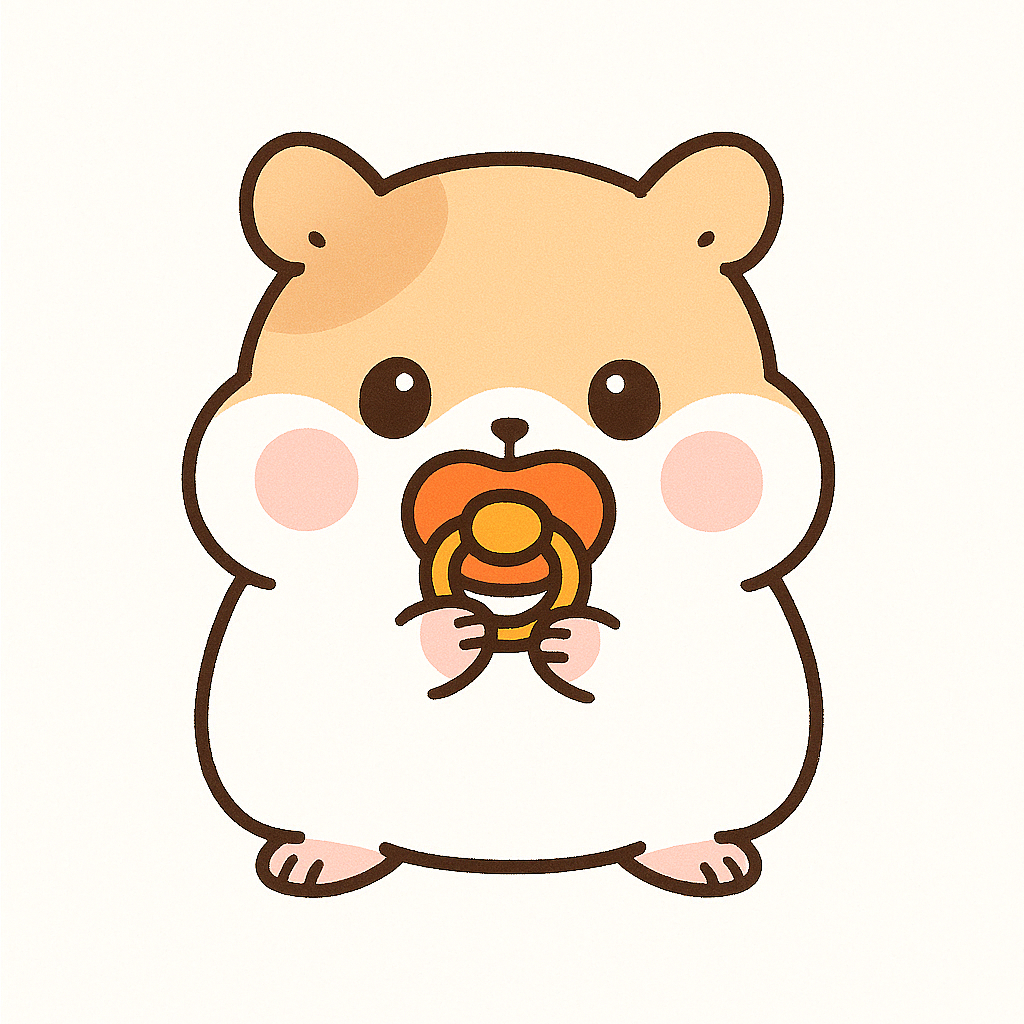
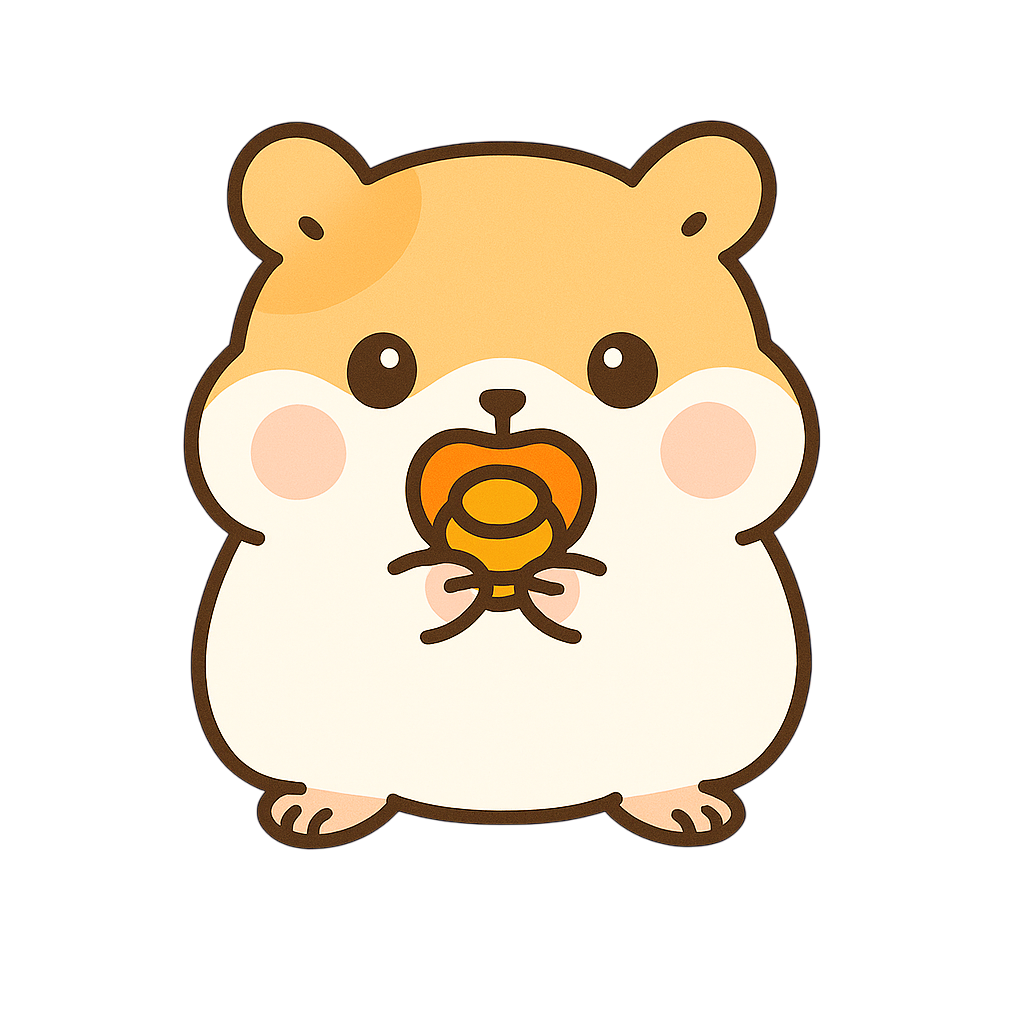
chore: 기부 캐릭터 이미지 개선

Changed region(s): [[0.1562, 0.0938, 0.8125, 0.875]]

diff --git a/src/frontend/src/app/donation/page.tsx b/src/frontend/src/app/donation/page.tsx
@@ -20,8 +20,8 @@ export default function DonationPage() {
 
   const stageImageMap = {
     BABY: '/애기햄스터.png',
-    CHILD: '/햄스터2.png',
-    ADULT: '/햄스터.png',
+    CHILD: '/청소년햄스터.png',
+    ADULT: '/donation_hamster.png',
   };
 
   const stageRef = useRef(stage);
